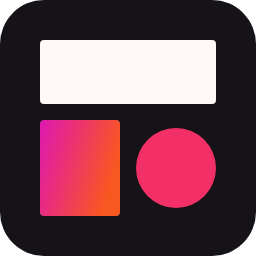
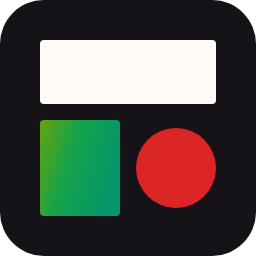
feat: mais vermelho no Campus e ícone no verde do projeto
- Campus ganha a segunda cor na ponta da faixa do topo, nos números das
  seções e no avatar, com o verde ainda no botão principal, na barra da nota
  e no título. O número mistura o vermelho à cor do texto, para ficar
  legível no tema claro e no escuro.
- Ícone da extensão no verde padrão, com o círculo vermelho.
- No tema claro, o título do login usa a versão escura do degradê.

Changed region(s): [[0.1562, 0.4688, 0.4688, 0.8438], [0.5312, 0.5, 0.8438, 0.8125]]

diff --git a/src/web/webview/temas.ts b/src/web/webview/temas.ts
@@ -25,6 +25,11 @@ export type CoresTema = {
   // Pontos, bordas e sombras de destaque (contraste de pelo menos 3 nos temas
   // claro e escuro).
   acento: string;
+  // Toques opcionais de uma segunda cor: a ponta da faixa do topo, os números
+  // das seções e o círculo do avatar.
+  ponta?: string;
+  numero?: string;
+  avatar?: string;
 };
 
 // O verde é a cor principal do projeto, como a do Instituto Federal.
@@ -40,7 +45,8 @@ export const TEMAS: Record<NomeTema, CoresTema> = {
     sobreBotao: "#ffffff",
     acento: "#16a34a",
   },
-  // Como a logo do IF: o verde nos blocos e o vermelho nos destaques.
+  // Como a logo do IF: o verde nos blocos e o vermelho nos destaques, na
+  // ponta da faixa, nos números das seções e no círculo do avatar.
   campus: {
     nome: "Campus",
     descricao: "Verde com toques de vermelho",
@@ -48,6 +54,9 @@ export const TEMAS: Record<NomeTema, CoresTema> = {
     degradeBotao: "linear-gradient(100deg, #24803a, #1f7a35 50%, #1a6d36)",
     sobreBotao: "#ffffff",
     acento: "#dc2626",
+    ponta: "#dc2626",
+    numero: "#dc2626",
+    avatar: "#dc2626",
   },
   oceano: {
     nome: "Oceano",
@@ -121,7 +130,10 @@ export function variaveisDoTema(nome: NomeTema): string {
       --degrade: ${tema.degrade};
       --degrade-botao: ${tema.degradeBotao};
       --sobre-botao: ${tema.sobreBotao};
-      --acento: ${tema.acento};`;
+      --acento: ${tema.acento};
+      --ponta: ${tema.ponta ?? "transparent"};
+      --numero: ${tema.numero ?? "var(--texto)"};
+      --avatar: ${tema.avatar ?? "var(--degrade)"};`;
 }
 
 /** Deixa o aluno escolher um conjunto e grava nas configurações do usuário. */

diff --git a/src/web/webview/html.ts b/src/web/webview/html.ts
@@ -76,10 +76,22 @@ ${variaveisDoTema(tema)}
     }
 
     .faixa {
+      position: relative;
       height: 3px;
       background: var(--degrade);
       background-size: 200% 100%;
       animation: correr 9s ease-in-out infinite alternate;
+    }
+
+    /* Ponta da faixa numa segunda cor, nos conjuntos que têm uma. */
+    .faixa::after {
+      content: "";
+      position: absolute;
+      top: 0;
+      right: 0;
+      bottom: 0;
+      width: 18%;
+      background: var(--ponta);
     }
 
     @keyframes correr {
@@ -120,8 +132,10 @@ ${variaveisDoTema(tema)}
       color: var(--texto-suave);
     }
 
+    /* Misturado à cor do texto, o número continua legível no tema claro e
+       no escuro (contraste acima de 4,5). */
     .rotulo .numero {
-      color: var(--texto);
+      color: color-mix(in srgb, var(--numero) 70%, var(--texto));
     }
 
     button {
@@ -382,7 +396,7 @@ export function obterHtmlWebview(
       font-size: 15px;
       font-weight: 700;
       color: #fff;
-      background: var(--degrade);
+      background: var(--avatar);
     }
 
     .aviso-ia {
@@ -1181,6 +1195,14 @@ export function obterHtmlAutenticacao(
       width: fit-content;
       color: transparent;
       background: var(--degrade);
+      -webkit-background-clip: text;
+      background-clip: text;
+    }
+
+    /* No tema claro, o título usa a versão escura do degradê (a do botão),
+       para ficar legível. */
+    body.vscode-light h1 span {
+      background: var(--degrade-botao);
       -webkit-background-clip: text;
       background-clip: text;
     }

diff --git a/src/web/test/suite/temas.test.ts b/src/web/test/suite/temas.test.ts
@@ -69,5 +69,11 @@ suite("Cores da extensão", () => {
     assert.ok(html("oceano").includes(`--acento: ${TEMAS.oceano.acento};`));
     assert.ok(!html("oceano").includes(TEMAS.magenta.acento));
     assert.ok(html("magenta").includes(`--degrade-botao: ${TEMAS.magenta.degradeBotao};`));
+
+    // Só o Campus tem a segunda cor; nos outros, os toques ficam neutros.
+    assert.ok(html("campus").includes("--ponta: #dc2626;"));
+    assert.ok(html("campus").includes("--avatar: #dc2626;"));
+    assert.ok(html("floresta").includes("--ponta: transparent;"));
+    assert.ok(html("floresta").includes("--avatar: var(--degrade);"));
   });
 });

diff --git a/CHANGELOG.md b/CHANGELOG.md
@@ -6,7 +6,9 @@ As mudanças de cada versão do FlexBox Trainer.
 
 ### Telas
 - O verde (Floresta) passa a ser a cor padrão da extensão.
-- Mais cores de destaque: Campus (verde com toques de vermelho), Noite (anil) e Grafite (cinzas).
+- Mais cores de destaque: Campus (verde com toques de vermelho, que aparecem na ponta da faixa do topo, nos números das seções, no avatar e nos destaques), Noite (anil) e Grafite (cinzas).
+- Ícone da extensão no verde do projeto, com o círculo vermelho, e a página de login no navegador também em verde.
+- No tema claro, o título do login usa a versão escura do degradê, para ficar legível.
 
 ### Documentação
 - O README ficou curto, com o essencial para quem vai instalar; o manual completo foi para `docs/MANUAL.md`.
